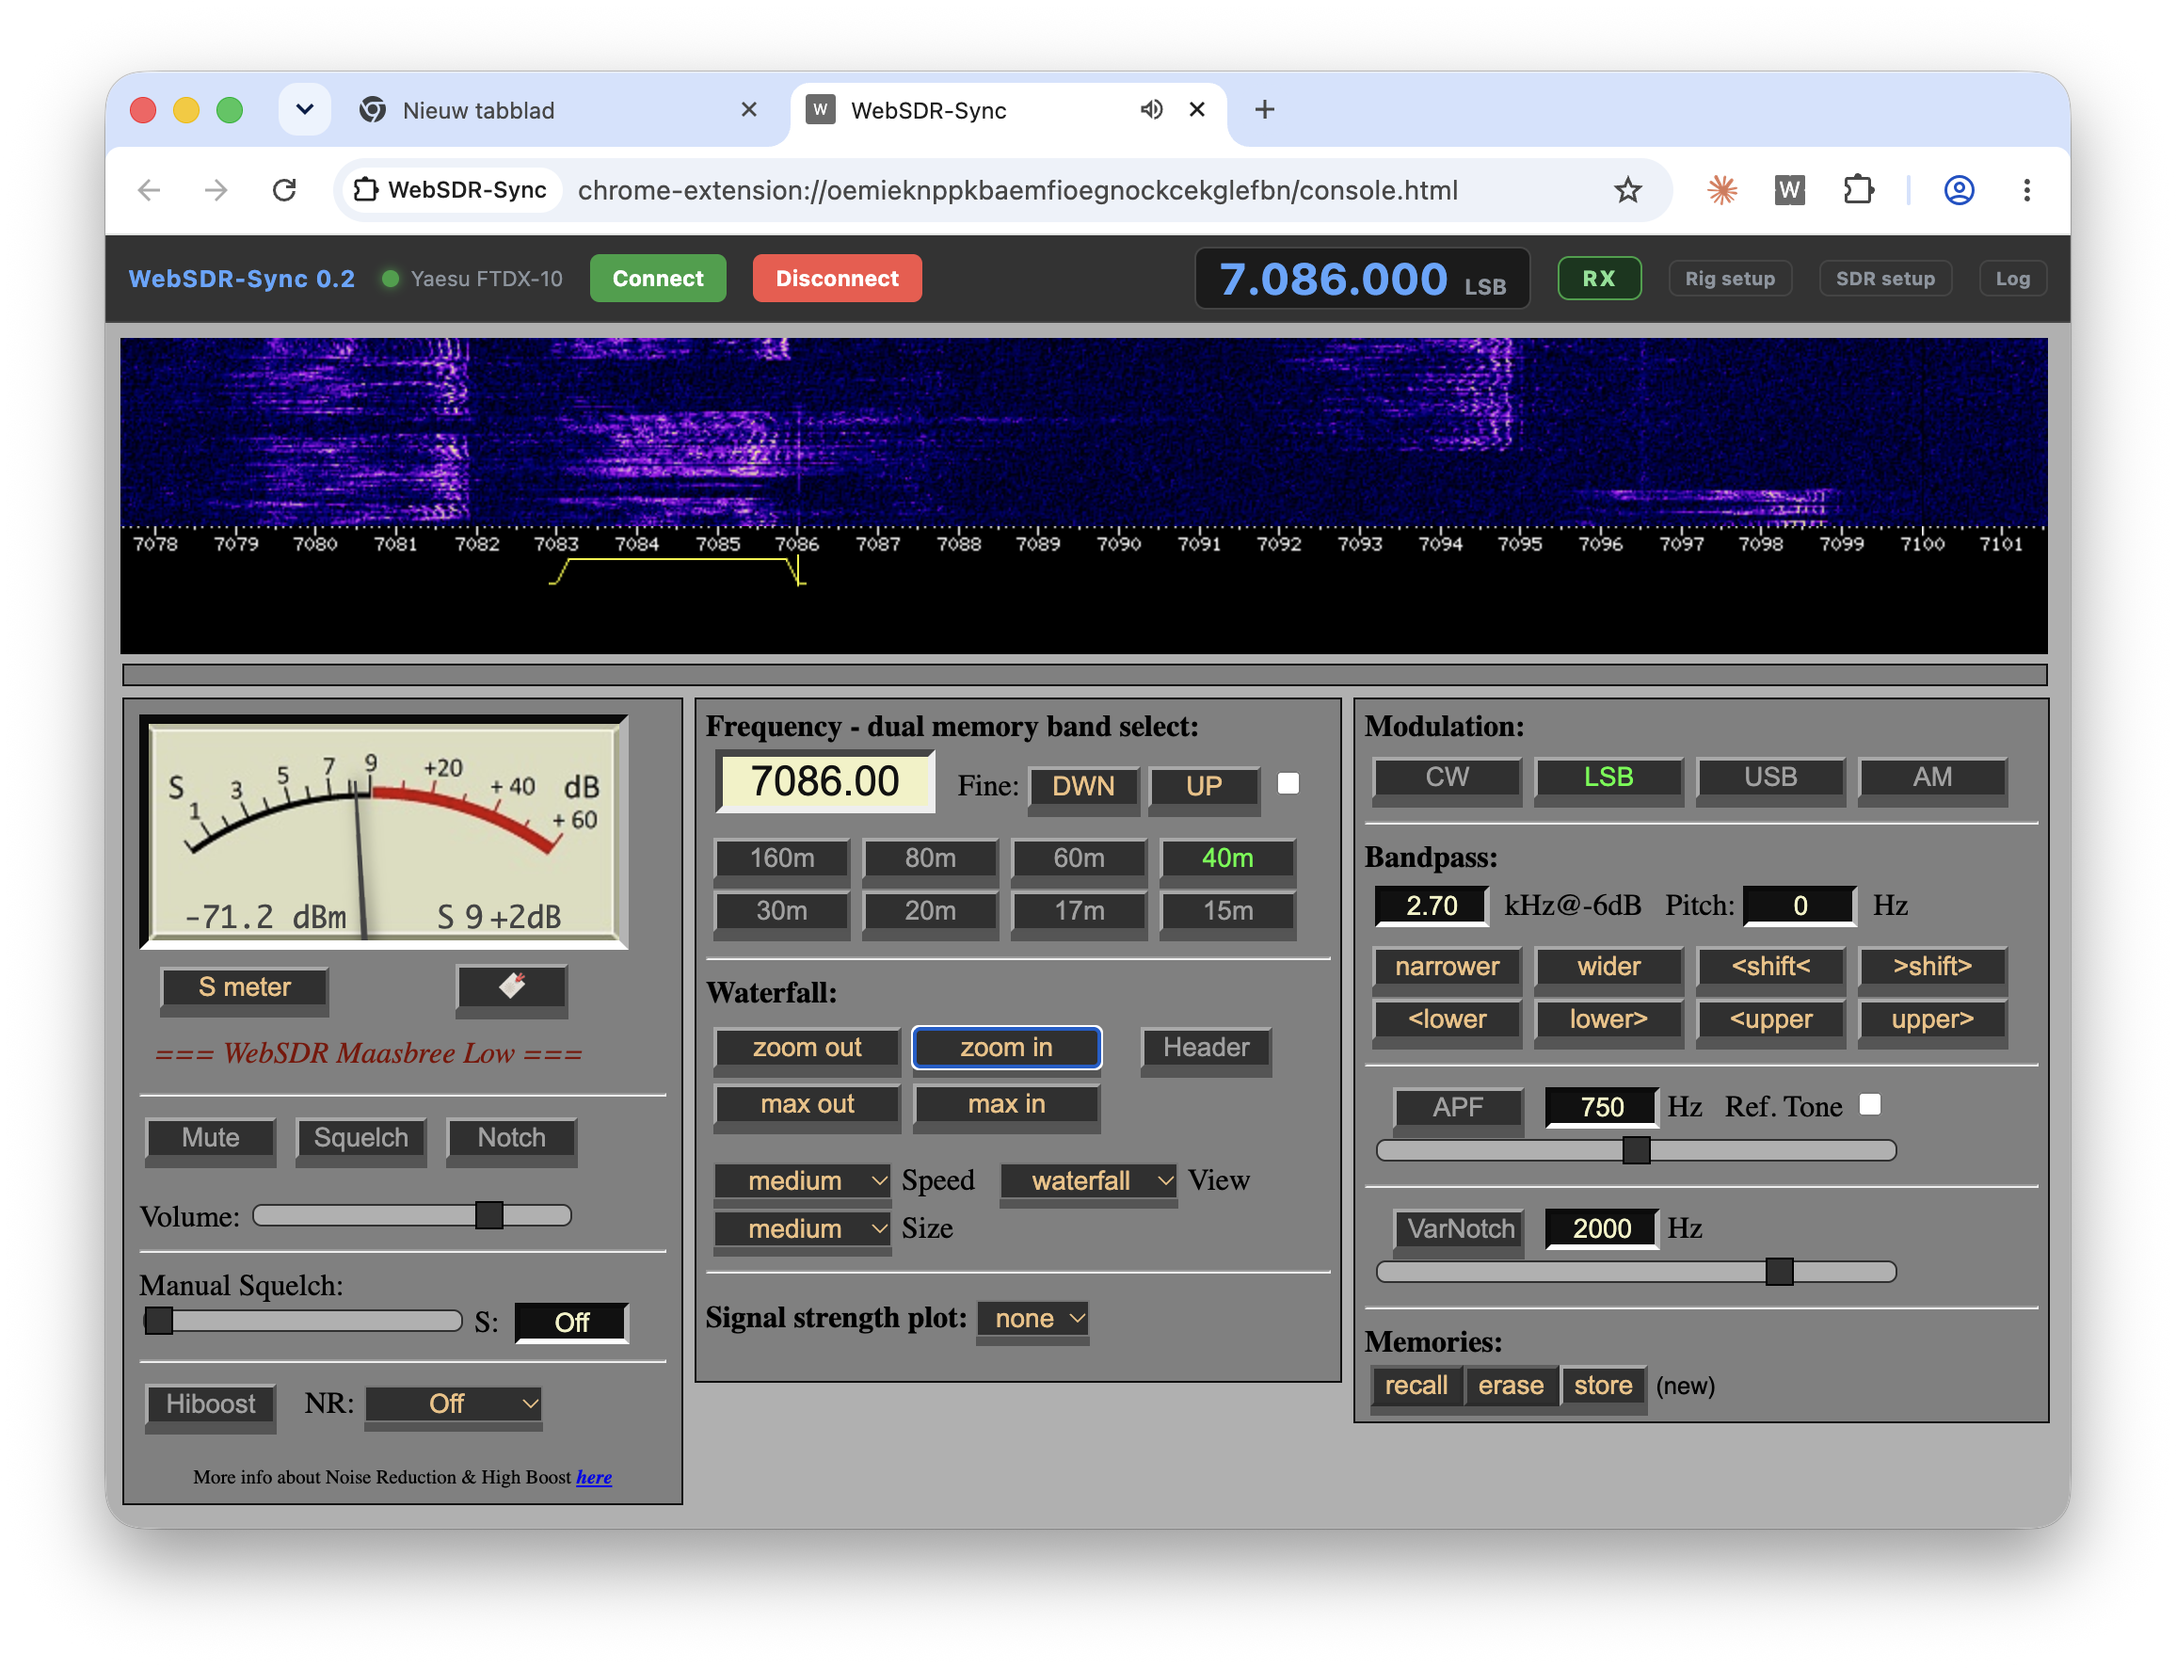
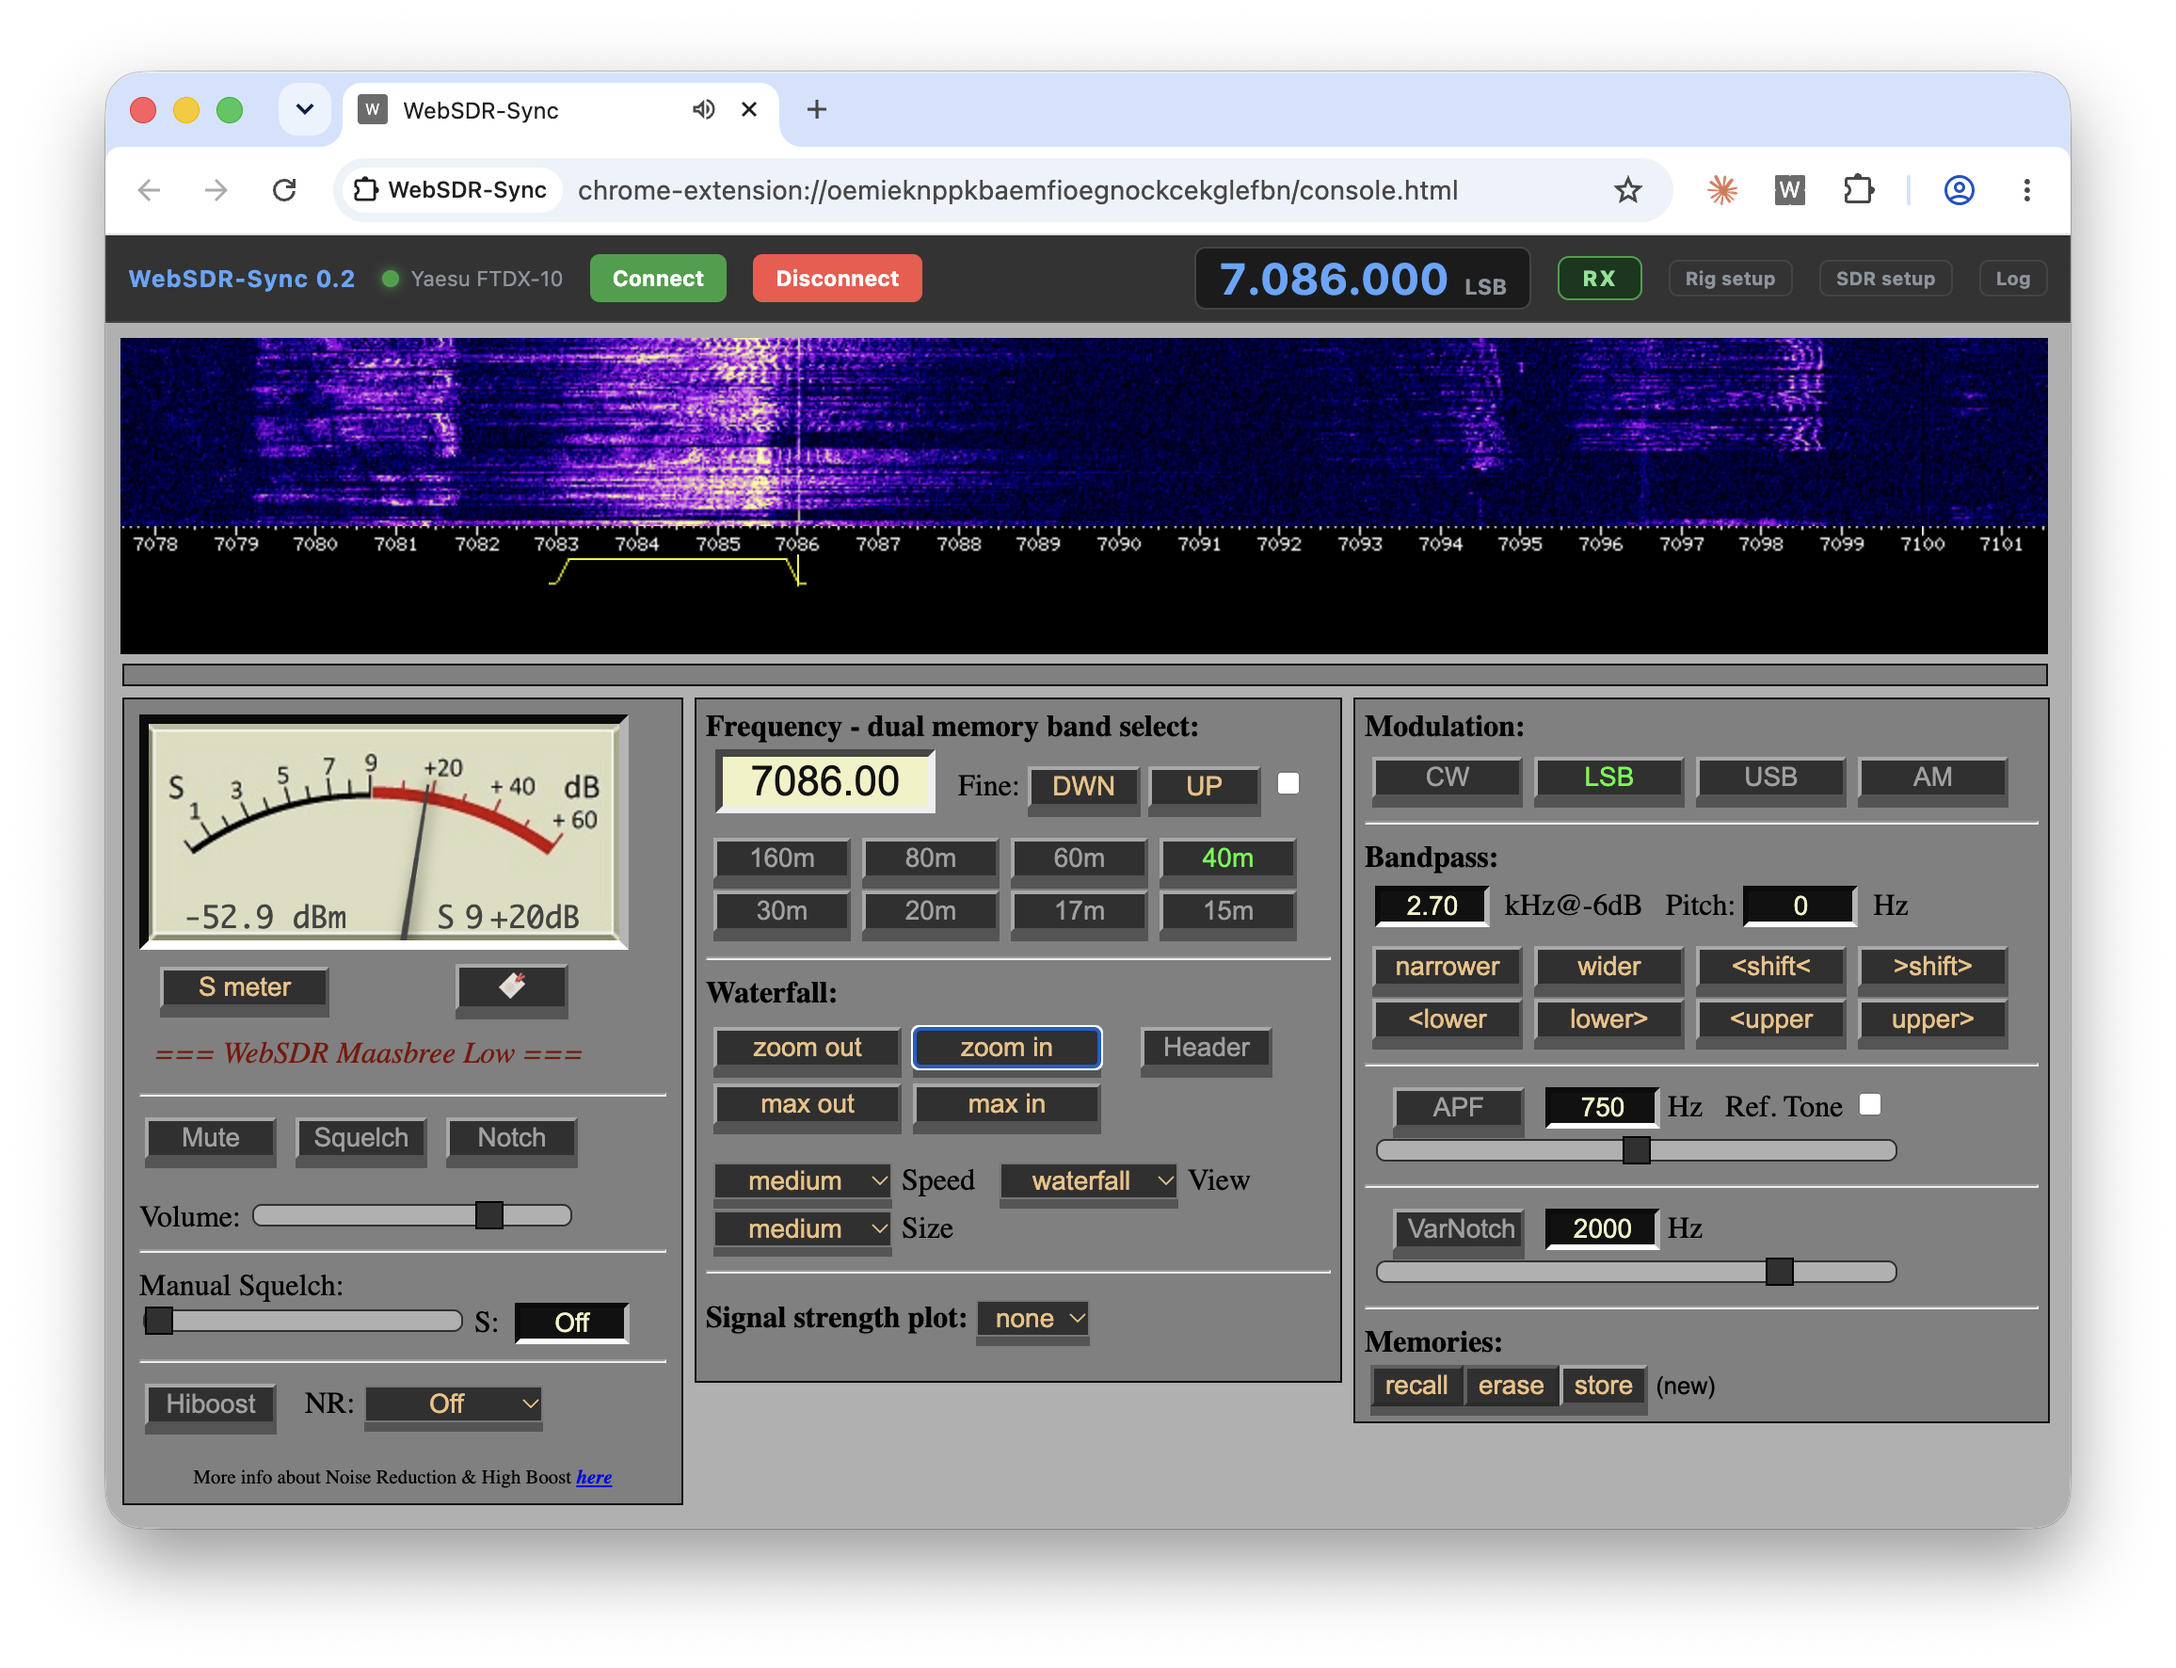
Added screenshot

diff --git a/README.md b/README.md
@@ -1,5 +1,7 @@
 # WebSDR-Sync — Control web SDR with a transceiver
 
+![WebSDR-Sync screenshot](screenshot1.png)
+
 Built with Claude assistence.
 
 Rig control through **Hamlib rigctld over TCP**, a WebSDR filling the rest of the window, the
